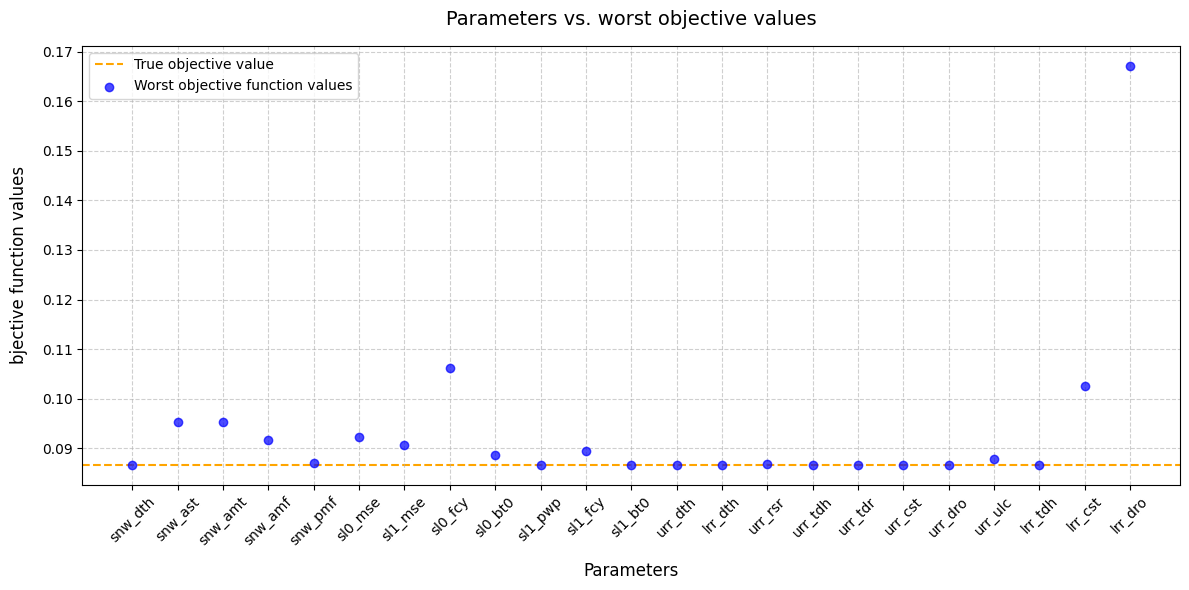
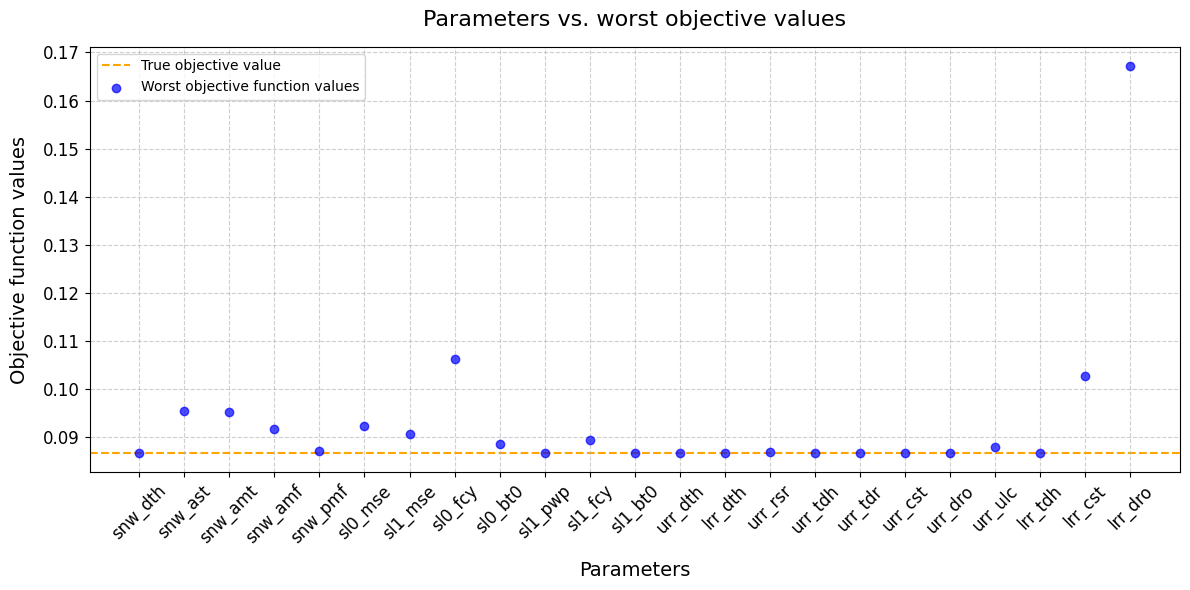
increase font size

diff --git a/task_2/plots_t2.py b/task_2/plots_t2.py
@@ -106,9 +106,11 @@ ax.scatter(df_cumulated_output['changed_parameter'],
 ax.grid(True, linestyle='--', alpha=0.6)
 ax.legend()
 ax.tick_params(axis='x', rotation=45)  # Rotate x-axis labels
-ax.set_xlabel('Parameters', fontsize=12, labelpad=10)
-ax.set_ylabel('bjective function values', fontsize=12, labelpad=10)
-ax.set_title('Parameters vs. worst objective values', fontsize=14, pad=15)
+ax.set_xlabel('Parameters', fontsize=14, labelpad=10)
+ax.set_ylabel('Objective function values', fontsize=14, labelpad=10)
+ax.set_title('Parameters vs. worst objective values', fontsize=16, pad=15)
+ax.tick_params(axis='both', which='major', labelsize=12)  # Increase tick label font size
+
 plt.tight_layout()
 fig.savefig(main_dir / 'task_2' / 'plots' / 'scatter.png', bbox_inches='tight')
 plt.show()
@@ -125,9 +127,11 @@ plt.yscale('log')
 ax.grid(True, linestyle='--', alpha=0.6)
 ax.legend()
 ax.tick_params(axis='x', rotation=45)  # Rotate x-axis labels
-ax.set_xlabel('Parameters', fontsize=12, labelpad=10)
-ax.set_ylabel('Worst objective function values in log-scale', fontsize=12, labelpad=10)
-ax.set_title('Parameters vs. worst objective values', fontsize=14, pad=15)
+ax.set_xlabel('Parameters', fontsize=14, labelpad=10)
+ax.set_ylabel('Objective function values in log-scale', fontsize=14, labelpad=10)
+ax.set_title('Parameters vs. worst objective values', fontsize=16, pad=15)
+ax.tick_params(axis='both', which='major', labelsize=12)  # Increase tick label font size
+
 plt.tight_layout()
 fig.savefig(main_dir / 'task_2' / 'plots' / 'scatter_log_scale.png', bbox_inches='tight')
 plt.show()
